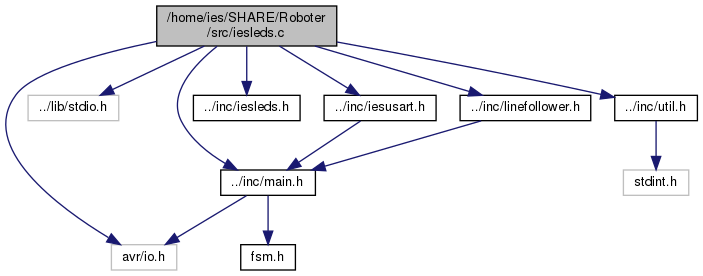
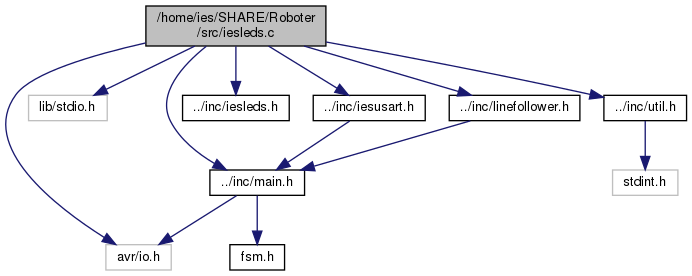
renamed most files. Removes ies in name

diff --git a/doc/html/iesusart_8h_source.html b/doc/html/iesusart_8h_source.html
@@ -66,7 +66,7 @@ $(function() {
 <div class="title">iesusart.h</div>  </div>
 </div><!--header-->
 <div class="contents">
-<div class="fragment"><div class="line"><a name="l00001"></a><span class="lineno">    1</span>&#160;</div><div class="line"><a name="l00008"></a><span class="lineno">    8</span>&#160;<span class="preprocessor">#ifndef IESUSART_h</span></div><div class="line"><a name="l00009"></a><span class="lineno">    9</span>&#160;<span class="preprocessor">#define IESUSART_h</span></div><div class="line"><a name="l00010"></a><span class="lineno">   10</span>&#160;</div><div class="line"><a name="l00011"></a><span class="lineno">   11</span>&#160;<span class="preprocessor">#include &quot;main.h&quot;</span></div><div class="line"><a name="l00012"></a><span class="lineno">   12</span>&#160;</div><div class="line"><a name="l00013"></a><span class="lineno">   13</span>&#160;<span class="comment">// TODO should this not be defined in main.h?</span></div><div class="line"><a name="l00014"></a><span class="lineno">   14</span>&#160;</div><div class="line"><a name="l00016"></a><span class="lineno">   16</span>&#160;<span class="preprocessor">#define BAUD 9600</span></div><div class="line"><a name="l00017"></a><span class="lineno">   17</span>&#160;<span class="preprocessor">#define UBRR_SETTING F_CPU/16.0/BAUD-1</span></div><div class="line"><a name="l00019"></a><span class="lineno">   19</span>&#160;</div><div class="line"><a name="l00026"></a><span class="lineno">   26</span>&#160;<span class="keywordtype">unsigned</span> <span class="keywordtype">char</span> <a class="code" href="iesusart_8c.html#a9a4219d8cf2dbfdda96ebe6a06de0bfb">USART_receiveByte</a>(<span class="keywordtype">void</span>);</div><div class="line"><a name="l00027"></a><span class="lineno">   27</span>&#160;</div><div class="line"><a name="l00032"></a><span class="lineno">   32</span>&#160;<span class="keywordtype">void</span> <a class="code" href="iesusart_8c.html#ab7983221cd707e76af1cbdc605ed8fa4">USART_transmitByte</a>(<span class="keywordtype">unsigned</span> <span class="keywordtype">char</span> data);</div><div class="line"><a name="l00033"></a><span class="lineno">   33</span>&#160;</div><div class="line"><a name="l00037"></a><span class="lineno">   37</span>&#160;<span class="keywordtype">void</span> <a class="code" href="iesusart_8c.html#ad230ae1e0f1a9cb24d547b1359d49322">USART_print</a>(<span class="keyword">const</span> <span class="keywordtype">char</span> *c);</div><div class="line"><a name="l00038"></a><span class="lineno">   38</span>&#160;</div><div class="line"><a name="l00043"></a><span class="lineno">   43</span>&#160;<span class="keywordtype">void</span> <a class="code" href="iesusart_8c.html#a9d08bac99e56beea16f99330cd0411d9">USART_Init</a>(<span class="keywordtype">unsigned</span> <span class="keywordtype">long</span> ubrr);</div><div class="line"><a name="l00044"></a><span class="lineno">   44</span>&#160;</div><div class="line"><a name="l00045"></a><span class="lineno">   45</span>&#160;</div><div class="line"><a name="l00046"></a><span class="lineno">   46</span>&#160;<span class="keywordtype">void</span> <a class="code" href="iesusart_8c.html#a2744fce10359c4e63ba8fcb65e7d92d2">transmit_debug_msg</a>(<a class="code" href="structFSM.html">FSM</a> *fsm, <a class="code" href="structRoboterData.html">RoboterData</a> *data);</div><div class="line"><a name="l00047"></a><span class="lineno">   47</span>&#160;<span class="preprocessor">#endif</span></div><div class="ttc" id="iesusart_8c_html_ab7983221cd707e76af1cbdc605ed8fa4"><div class="ttname"><a href="iesusart_8c.html#ab7983221cd707e76af1cbdc605ed8fa4">USART_transmitByte</a></div><div class="ttdeci">void USART_transmitByte(unsigned char data)</div><div class="ttdoc">Writes a single byte to the USART transmit buffer. </div><div class="ttdef"><b>Definition:</b> iesusart.c:37</div></div>
+<div class="fragment"><div class="line"><a name="l00001"></a><span class="lineno">    1</span>&#160;</div><div class="line"><a name="l00008"></a><span class="lineno">    8</span>&#160;<span class="preprocessor">#ifndef IESUSART_h</span></div><div class="line"><a name="l00009"></a><span class="lineno">    9</span>&#160;<span class="preprocessor">#define IESUSART_h</span></div><div class="line"><a name="l00010"></a><span class="lineno">   10</span>&#160;</div><div class="line"><a name="l00011"></a><span class="lineno">   11</span>&#160;<span class="preprocessor">#include &quot;main.h&quot;</span></div><div class="line"><a name="l00012"></a><span class="lineno">   12</span>&#160;</div><div class="line"><a name="l00014"></a><span class="lineno">   14</span>&#160;<span class="preprocessor">#define BAUD 9600</span></div><div class="line"><a name="l00015"></a><span class="lineno">   15</span>&#160;<span class="preprocessor">#define UBRR_SETTING F_CPU/16.0/BAUD-1</span></div><div class="line"><a name="l00017"></a><span class="lineno">   17</span>&#160;</div><div class="line"><a name="l00024"></a><span class="lineno">   24</span>&#160;<span class="keywordtype">unsigned</span> <span class="keywordtype">char</span> <a class="code" href="iesusart_8c.html#a9a4219d8cf2dbfdda96ebe6a06de0bfb">USART_receiveByte</a>(<span class="keywordtype">void</span>);</div><div class="line"><a name="l00025"></a><span class="lineno">   25</span>&#160;</div><div class="line"><a name="l00030"></a><span class="lineno">   30</span>&#160;<span class="keywordtype">void</span> <a class="code" href="iesusart_8c.html#ab7983221cd707e76af1cbdc605ed8fa4">USART_transmitByte</a>(<span class="keywordtype">unsigned</span> <span class="keywordtype">char</span> data);</div><div class="line"><a name="l00031"></a><span class="lineno">   31</span>&#160;</div><div class="line"><a name="l00035"></a><span class="lineno">   35</span>&#160;<span class="keywordtype">void</span> <a class="code" href="iesusart_8c.html#ad230ae1e0f1a9cb24d547b1359d49322">USART_print</a>(<span class="keyword">const</span> <span class="keywordtype">char</span> *c);</div><div class="line"><a name="l00036"></a><span class="lineno">   36</span>&#160;</div><div class="line"><a name="l00041"></a><span class="lineno">   41</span>&#160;<span class="keywordtype">void</span> <a class="code" href="iesusart_8c.html#a9d08bac99e56beea16f99330cd0411d9">USART_Init</a>(<span class="keywordtype">unsigned</span> <span class="keywordtype">long</span> ubrr);</div><div class="line"><a name="l00042"></a><span class="lineno">   42</span>&#160;</div><div class="line"><a name="l00043"></a><span class="lineno">   43</span>&#160;</div><div class="line"><a name="l00044"></a><span class="lineno">   44</span>&#160;<span class="keywordtype">void</span> <a class="code" href="iesusart_8c.html#a2744fce10359c4e63ba8fcb65e7d92d2">transmit_debug_msg</a>(<a class="code" href="structFSM.html">FSM</a> *fsm, <a class="code" href="structRoboterData.html">RoboterData</a> *data);</div><div class="line"><a name="l00045"></a><span class="lineno">   45</span>&#160;<span class="preprocessor">#endif</span></div><div class="ttc" id="iesusart_8c_html_ab7983221cd707e76af1cbdc605ed8fa4"><div class="ttname"><a href="iesusart_8c.html#ab7983221cd707e76af1cbdc605ed8fa4">USART_transmitByte</a></div><div class="ttdeci">void USART_transmitByte(unsigned char data)</div><div class="ttdoc">Writes a single byte to the USART transmit buffer. </div><div class="ttdef"><b>Definition:</b> iesusart.c:37</div></div>
 <div class="ttc" id="structFSM_html"><div class="ttname"><a href="structFSM.html">FSM</a></div><div class="ttdoc">Stores all states. </div><div class="ttdef"><b>Definition:</b> fsm.h:64</div></div>
 <div class="ttc" id="iesusart_8c_html_a2744fce10359c4e63ba8fcb65e7d92d2"><div class="ttname"><a href="iesusart_8c.html#a2744fce10359c4e63ba8fcb65e7d92d2">transmit_debug_msg</a></div><div class="ttdeci">void transmit_debug_msg(FSM *fsm, RoboterData *data)</div><div class="ttdef"><b>Definition:</b> iesusart.c:84</div></div>
 <div class="ttc" id="structRoboterData_html"><div class="ttname"><a href="structRoboterData.html">RoboterData</a></div><div class="ttdef"><b>Definition:</b> main.h:45</div></div>

diff --git a/doc/html/iesleds_8c.html b/doc/html/iesleds_8c.html
@@ -70,7 +70,7 @@ $(function() {
 </div><!--header-->
 <div class="contents">
 <div class="textblock"><code>#include &lt;avr/io.h&gt;</code><br />
-<code>#include &quot;../lib/stdio.h&quot;</code><br />
+<code>#include &lt;lib/stdio.h&gt;</code><br />
 <code>#include &quot;../inc/main.h&quot;</code><br />
 <code>#include &quot;../inc/iesleds.h&quot;</code><br />
 <code>#include &quot;../inc/iesusart.h&quot;</code><br />
@@ -81,12 +81,12 @@ Include dependency graph for iesleds.c:</div>
 <div class="dyncontent">
 <div class="center"><img src="iesleds_8c__incl.png" border="0" usemap="#_2home_2ies_2SHARE_2Roboter_2src_2iesleds_8c" alt=""/></div>
 <map name="_2home_2ies_2SHARE_2Roboter_2src_2iesleds_8c" id="_2home_2ies_2SHARE_2Roboter_2src_2iesleds_8c">
-<area shape="rect" id="node4" href="main_8h_source.html" title="../inc/main.h" alt="" coords="221,169,315,196"/>
-<area shape="rect" id="node6" href="iesleds_8h_source.html" title="../inc/iesleds.h" alt="" coords="193,95,300,121"/>
-<area shape="rect" id="node7" href="iesusart_8h_source.html" title="../inc/iesusart.h" alt="" coords="324,95,436,121"/>
-<area shape="rect" id="node8" href="util_8h_source.html" title="../inc/util.h" alt="" coords="615,95,697,121"/>
-<area shape="rect" id="node10" href="linefollower_8h_source.html" title="../inc/linefollower.h" alt="" coords="460,95,591,121"/>
-<area shape="rect" id="node5" href="fsm_8h_source.html" title="fsm.h" alt="" coords="241,244,295,271"/>
+<area shape="rect" id="node4" href="main_8h_source.html" title="../inc/main.h" alt="" coords="210,169,305,196"/>
+<area shape="rect" id="node6" href="iesleds_8h_source.html" title="../inc/iesleds.h" alt="" coords="183,95,289,121"/>
+<area shape="rect" id="node7" href="iesusart_8h_source.html" title="../inc/iesusart.h" alt="" coords="313,95,425,121"/>
+<area shape="rect" id="node8" href="util_8h_source.html" title="../inc/util.h" alt="" coords="604,95,687,121"/>
+<area shape="rect" id="node10" href="linefollower_8h_source.html" title="../inc/linefollower.h" alt="" coords="449,95,580,121"/>
+<area shape="rect" id="node5" href="fsm_8h_source.html" title="fsm.h" alt="" coords="230,244,285,271"/>
 </map>
 </div>
 </div><table class="memberdecls">

diff --git a/doc/latex/iesleds_8c.tex b/doc/latex/iesleds_8c.tex
@@ -1,7 +1,7 @@
 \hypertarget{iesleds_8c}{}\section{/home/ies/\+S\+H\+A\+R\+E/\+Roboter/src/iesleds.c File Reference}
 \label{iesleds_8c}\index{/home/ies/\+S\+H\+A\+R\+E/\+Roboter/src/iesleds.\+c@{/home/ies/\+S\+H\+A\+R\+E/\+Roboter/src/iesleds.\+c}}
 {\ttfamily \#include $<$avr/io.\+h$>$}\newline
-{\ttfamily \#include \char`\"{}../lib/stdio.\+h\char`\"{}}\newline
+{\ttfamily \#include $<$lib/stdio.\+h$>$}\newline
 {\ttfamily \#include \char`\"{}../inc/main.\+h\char`\"{}}\newline
 {\ttfamily \#include \char`\"{}../inc/iesleds.\+h\char`\"{}}\newline
 {\ttfamily \#include \char`\"{}../inc/iesusart.\+h\char`\"{}}\newline

diff --git a/src/states.c b/src/states.c
@@ -4,12 +4,12 @@
  */
 
 #include "../inc/states.h"
-#include "../inc/iesmotors.h"
-#include "../inc/iesadc.h"
-#include "../inc/iesusart.h"
-#include "../inc/iesleds.h"
-#include "../inc/check_lap.h"
-#include "../inc/iescountdown.h"
+#include "../inc/motor_controller.h"
+#include "../inc/adc.h"
+#include "../inc/usart.h"
+#include "../inc/led_controller.h"
+#include "../inc/check_lap_state.h"
+#include "../inc/countdown_states.h"
 #include "../inc/linefollower.h"
 
 void enter_init(void) {

diff --git a/src/countdown_states.c b/src/countdown_states.c
@@ -9,11 +9,11 @@
 #include <avr/wdt.h>
 
 #include "../inc/main.h"
-#include "../inc/iescountdown.h"
-#include "../inc/iesleds.h"
-#include "../inc/iesusart.h"
+#include "../inc/countdown_states.h"
+#include "../inc/led_controller.h"
+#include "../inc/usart.h"
 
-#include "../inc/iesmotors.h"
+#include "../inc/motor_controller.h"
 #include "../inc/linefollower.h"
 
 #define F_LEDS 5 // in hz

diff --git a/src/check_lap_state.c b/src/check_lap_state.c
@@ -7,11 +7,11 @@
 #include <avr/interrupt.h>
 #include <stdio.h>
 
-#include "../inc/check_lap.h"
+#include "../inc/check_lap_state.h"
 #include "../inc/linefollower.h"
-#include "../inc/iesmotors.h"
-#include "../inc/iesusart.h"
-#include "../inc/iesleds.h"
+#include "../inc/motor_controller.h"
+#include "../inc/usart.h"
+#include "../inc/led_controller.h"
 #include "../inc/main.h"
 
 /**

diff --git a/src/main.c b/src/main.c
@@ -10,8 +10,8 @@
 #include <stdbool.h>
 #include "../inc/main.h"
 #include "../inc/states.h"
-#include "../inc/iescountdown.h"
-#include "../inc/check_lap.h"
+#include "../inc/countdown_states.h"
+#include "../inc/check_lap_state.h"
 
 
 /* TODO eventuell muss ich diese Werte nicht speichern im struct sonder einfach in main.h speichern

diff --git a/src/led_controller.c b/src/led_controller.c
@@ -4,10 +4,10 @@
  */
 
 #include <avr/io.h>
-#include <lib/stdio.h>
+#include <stdio.h>
 #include "../inc/main.h"
-#include "../inc/iesleds.h"
-#include "../inc/iesusart.h"
+#include "../inc/led_controller.h"
+#include "../inc/usart.h"
 #include "../inc/util.h"
 #include "../inc/linefollower.h"
 

diff --git a/src/motor_controller.c b/src/motor_controller.c
@@ -9,9 +9,9 @@
 #include <util/delay.h>
 #include <avr/interrupt.h>
 #include "../inc/main.h"
-#include "../inc/iesmotors.h"
+#include "../inc/motor_controller.h"
 #include "../inc/fsm.h"
-#include "../inc/iesusart.h"
+#include "../inc/usart.h"
 #include "../inc/util.h"
 
 enum {

diff --git a/src/adc.c b/src/adc.c
@@ -9,8 +9,8 @@
 #include <avr/io.h>
 #include <avr/interrupt.h>
 #include "../lib/stdio.h"
-#include "../inc/iesusart.h"
-#include "../inc/iesadc.h"
+#include "../inc/usart.h"
+#include "../inc/adc.h"
 #include "../inc/main.h"
 
 void ADC_Init() {

diff --git a/src/linefollower.c b/src/linefollower.c
@@ -4,7 +4,7 @@
  */
 
 #include "../inc/linefollower.h"
-#include "../inc/iesadc.h"
+#include "../inc/adc.h"
 
 /**
  * @def SAMPLE_SIZE determines how many sensor meassurements are taken.

diff --git a/src/usart.c b/src/usart.c
@@ -7,7 +7,7 @@
 
 #include <avr/io.h>
 #include <util/delay.h>
-#include "../inc/iesusart.h"
+#include "../inc/usart.h"
 #include "../lib/stdio.h"
 
 #define SHORT_wTIME 100
